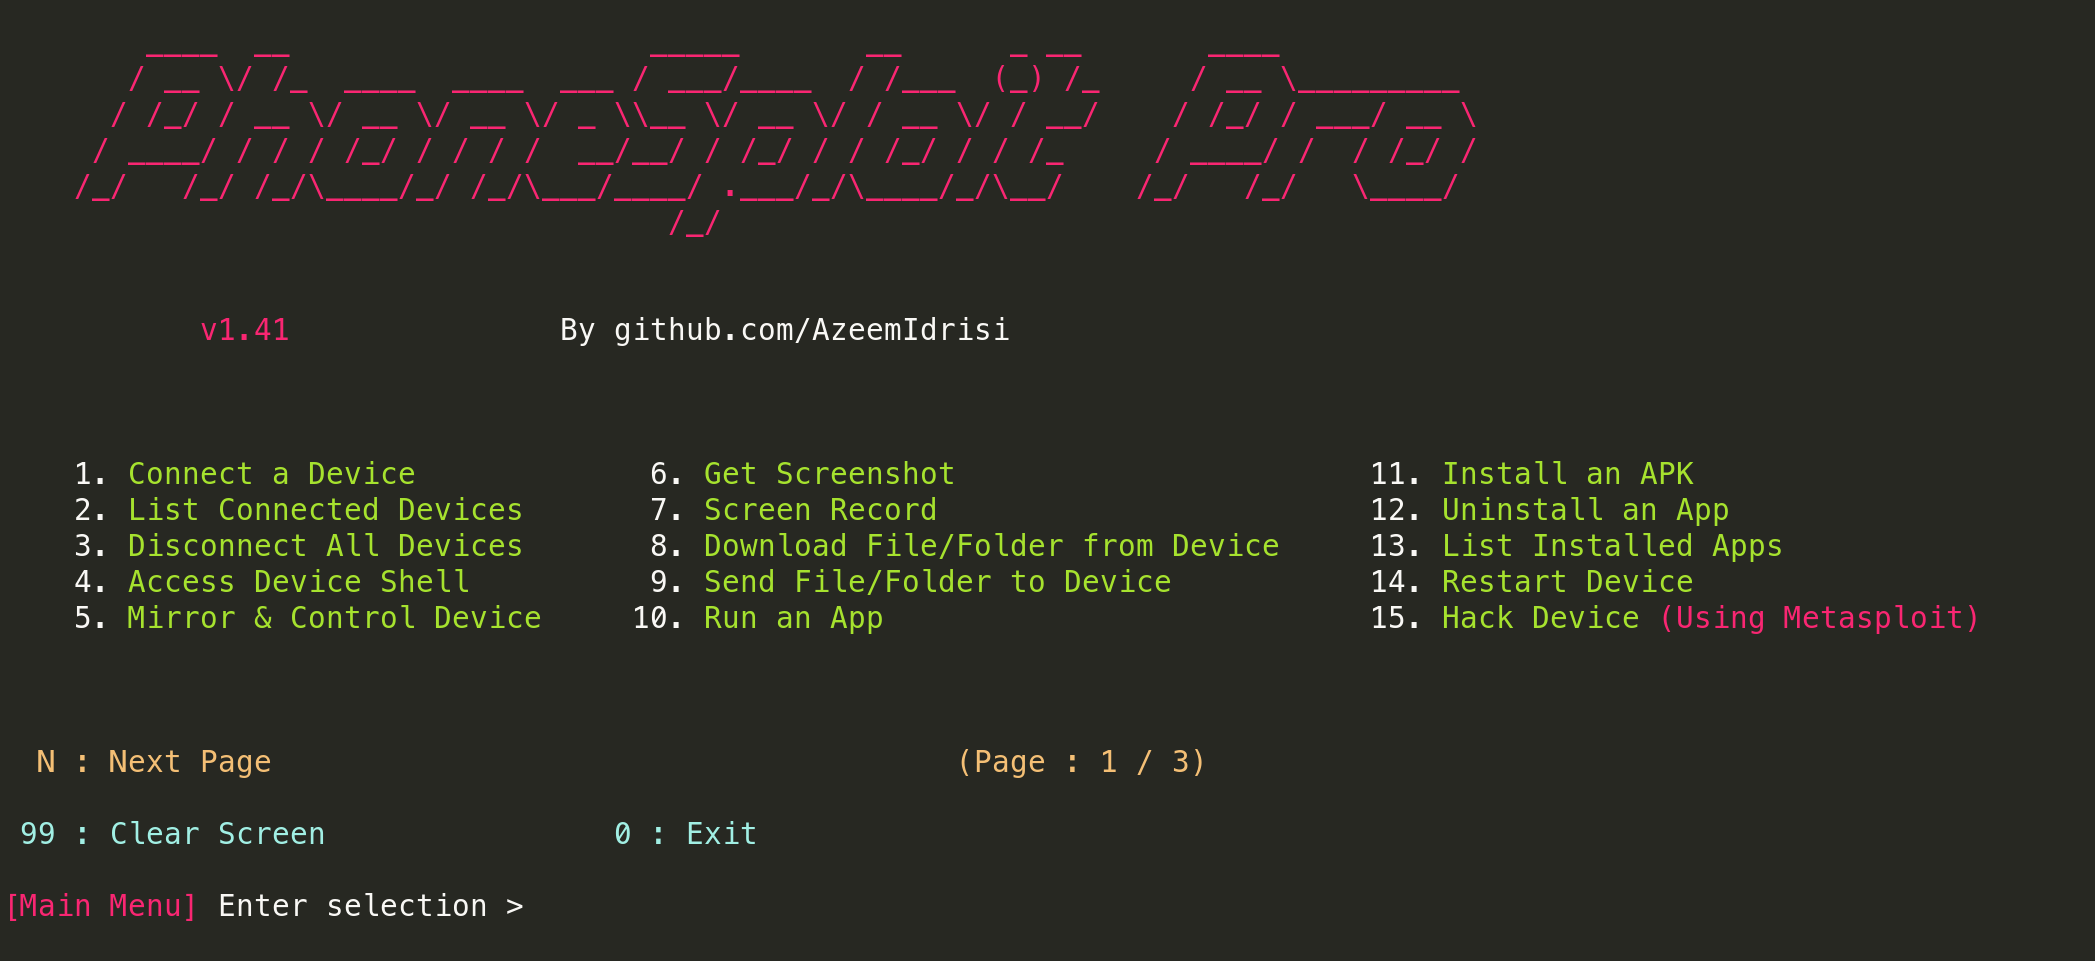
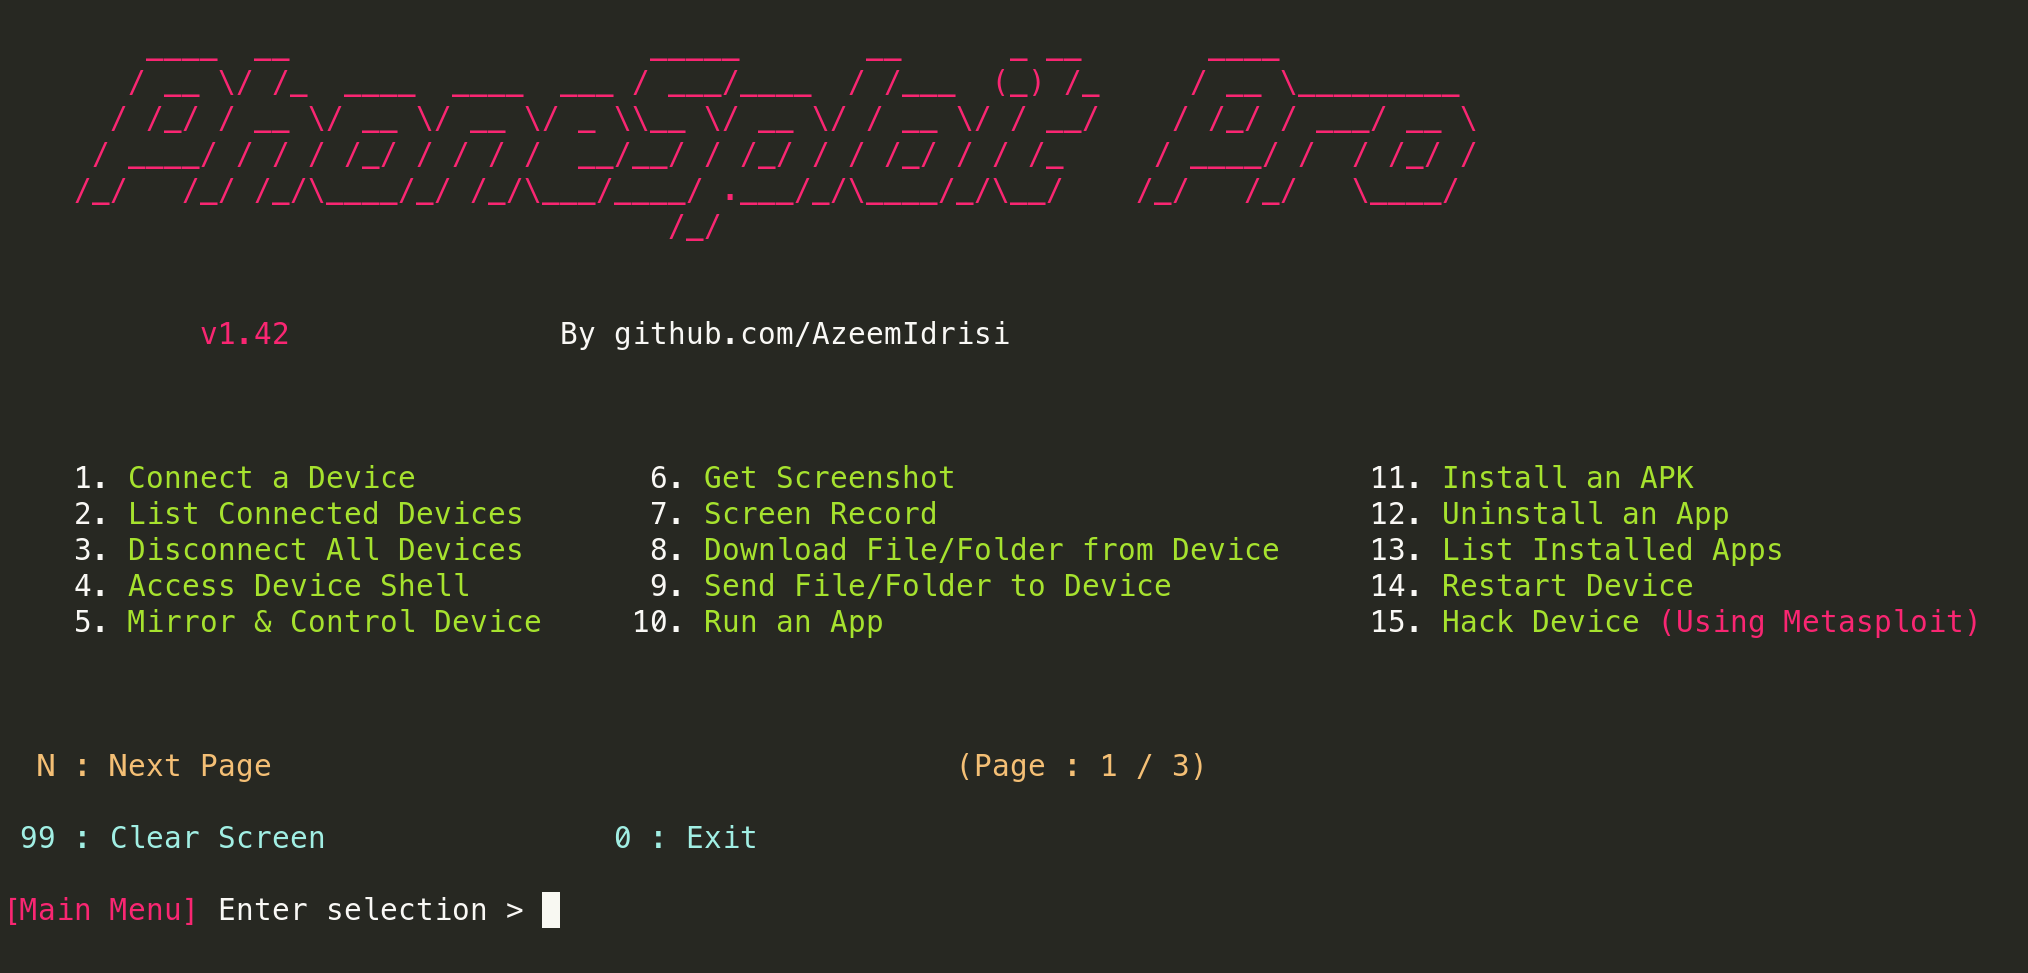
v1.42: Added Inbuilt Updater

diff --git a/modules/banner.py b/modules/banner.py
@@ -33,8 +33,8 @@ menu3 = f'''
     {color.WHITE}31. {color.GREEN}Unlock Device               {color.WHITE}36. {color.GREEN}Extract APK from Installed App      {color.WHITE}    {color.GREEN}
     {color.WHITE}32. {color.GREEN}Lock Device                 {color.WHITE}37. {color.GREEN}Stop ADB Server                     {color.WHITE}    {color.GREEN}
     {color.WHITE}33. {color.GREEN}Dump All SMS                {color.WHITE}38. {color.GREEN}Power Off Device                    {color.WHITE}    {color.GREEN}
-    {color.WHITE}34. {color.GREEN}Dump All Contacts           {color.WHITE}    {color.GREEN}                                    {color.WHITE}    {color.GREEN}
-    {color.WHITE}35. {color.GREEN}Dump Call Logs              {color.WHITE}    {color.GREEN}                                    {color.WHITE}    {color.GREEN}
+    {color.WHITE}34. {color.GREEN}Dump All Contacts           {color.WHITE}39. {color.GREEN}Update PhoneSploit-Pro              {color.WHITE}    {color.GREEN}
+    {color.WHITE}35. {color.GREEN}Dump Call Logs              {color.WHITE}40. {color.GREEN}Visit PhoneSploit-Pro on GitHub     {color.WHITE}    {color.GREEN}
 
 
    {color.YELLOW} 
@@ -72,7 +72,7 @@ banner2 = f'''
         ░█─── ▀──▀ ▀▀▀▀ ▀──▀ ▀▀▀ ░█▄▄▄█ █▀▀▀ ▀▀▀ ▀▀▀▀ ▀▀▀ ──▀── 　 ░█─── ▀─▀▀ ▀▀▀▀
 
 
-            {color.RED}v1.41{color.WHITE}            {color.WHITE}By github.com/AzeemIdrisi
+            {color.RED}v1.42{color.WHITE}            {color.WHITE}By github.com/AzeemIdrisi
 '''
 
 banner3 = f'''
@@ -81,7 +81,7 @@ banner3 = f'''
         █▀▀ █▀█ █▄█ █░▀█ ██▄ ▄█ █▀▀ █▄▄ █▄█ █ ░█░   █▀▀ █▀▄ █▄█ 
 
 
-            {color.RED}v1.41{color.WHITE}             {color.WHITE}By github.com/AzeemIdrisi
+            {color.RED}v1.42{color.WHITE}             {color.WHITE}By github.com/AzeemIdrisi
 '''
 
 banner4 = f'''
@@ -93,7 +93,7 @@ banner4 = f'''
                   \/            \/     \/        \/|__|                                                      
 
 
-        {color.RED}v1.41{color.WHITE}                             {color.WHITE}By github.com/AzeemIdrisi
+        {color.RED}v1.42{color.WHITE}                             {color.WHITE}By github.com/AzeemIdrisi
 '''
 banner5 = f'''
        ___  __                 ____     __     _ __     ___         
@@ -102,7 +102,7 @@ banner5 = f'''
     /_/  /_//_/\___/_//_/\__/___/ .__/_/\___/_/\__/  /_/  /_/  \___/
                                /_/                                                                                                      
 
-        {color.RED}v1.41{color.WHITE}        {color.WHITE}By github.com/AzeemIdrisi
+        {color.RED}v1.42{color.WHITE}        {color.WHITE}By github.com/AzeemIdrisi
 '''
 
 banner6 = f'''
@@ -113,7 +113,7 @@ banner6 = f'''
     /_/   /_/ /_/\____/_/ /_/\___/____/ .___/_/\____/_/\__/    /_/   /_/   \____/
                                      /_/                                                                                                       
     
-           {color.RED}v1.41{color.WHITE}               {color.WHITE}By github.com/AzeemIdrisi
+           {color.RED}v1.42{color.WHITE}               {color.WHITE}By github.com/AzeemIdrisi
 
 '''
 
@@ -128,7 +128,7 @@ banner10 = f'''
                                                          \ \_\                                                       
                                                           \/_/                                              
 
-            {color.RED}v1.41{color.WHITE}                                {color.WHITE}By github.com/AzeemIdrisi
+            {color.RED}v1.42{color.WHITE}                                {color.WHITE}By github.com/AzeemIdrisi
 
 '''
 
@@ -141,7 +141,7 @@ banner11 = f'''
                                             /_/                                                      
 
 
-            {color.RED}v1.41{color.WHITE}                            {color.WHITE}By github.com/AzeemIdrisi
+            {color.RED}v1.42{color.WHITE}                            {color.WHITE}By github.com/AzeemIdrisi
 
 '''
 
@@ -152,7 +152,7 @@ banner12 = f'''
         ▒█░░░ ▀░░▀ ▀▀▀▀ ▀░░▀ ▀▀▀ ▒█▄▄▄█ █▀▀▀ ▀▀▀ ▀▀▀▀ ▀▀▀ ░░▀░░ 　 ▒█░░░ ▀░▀▀ ▀▀▀▀   
 
 
-            {color.RED}v1.41{color.WHITE}                            {color.WHITE}By github.com/AzeemIdrisi
+            {color.RED}v1.42{color.WHITE}                            {color.WHITE}By github.com/AzeemIdrisi
 
 '''
 banner_list = [banner2, banner3, banner4, banner5,

diff --git a/phonesploitpro.py b/phonesploitpro.py
@@ -1109,6 +1109,21 @@ def power_off():
     print('\n')
 
 
+def update_me():
+    print(f'{color.GREEN}\nUpdating PhoneSploit-Pro\n{color.WHITE}')
+    print(f'{color.GREEN}\nFetching latest updates from GitHub\n{color.WHITE}')
+    os.system('git fetch')
+    print(f'{color.GREEN}\nApplying changes\n{color.WHITE}')
+    os.system('git rebase')
+    print(f'{color.CYAN}\nPlease restart PhoneSploit-Pro\n{color.WHITE}')
+    exit_phonesploit_pro()
+
+
+def visit_me():
+    os.system(f'{opener} "https://github.com/AzeemIdrisi/PhoneSploit-Pro"')
+    print("\n")
+
+
 def main():
     # Clearing the screen and presenting the menu
     # taking selection input from user
@@ -1201,6 +1216,10 @@ def main():
             stop_adb()
         case '38':
             power_off()
+        case '39':
+            update_me()
+        case '40':
+            visit_me()
         case other:
             print("\nInvalid selection!\n")
 
